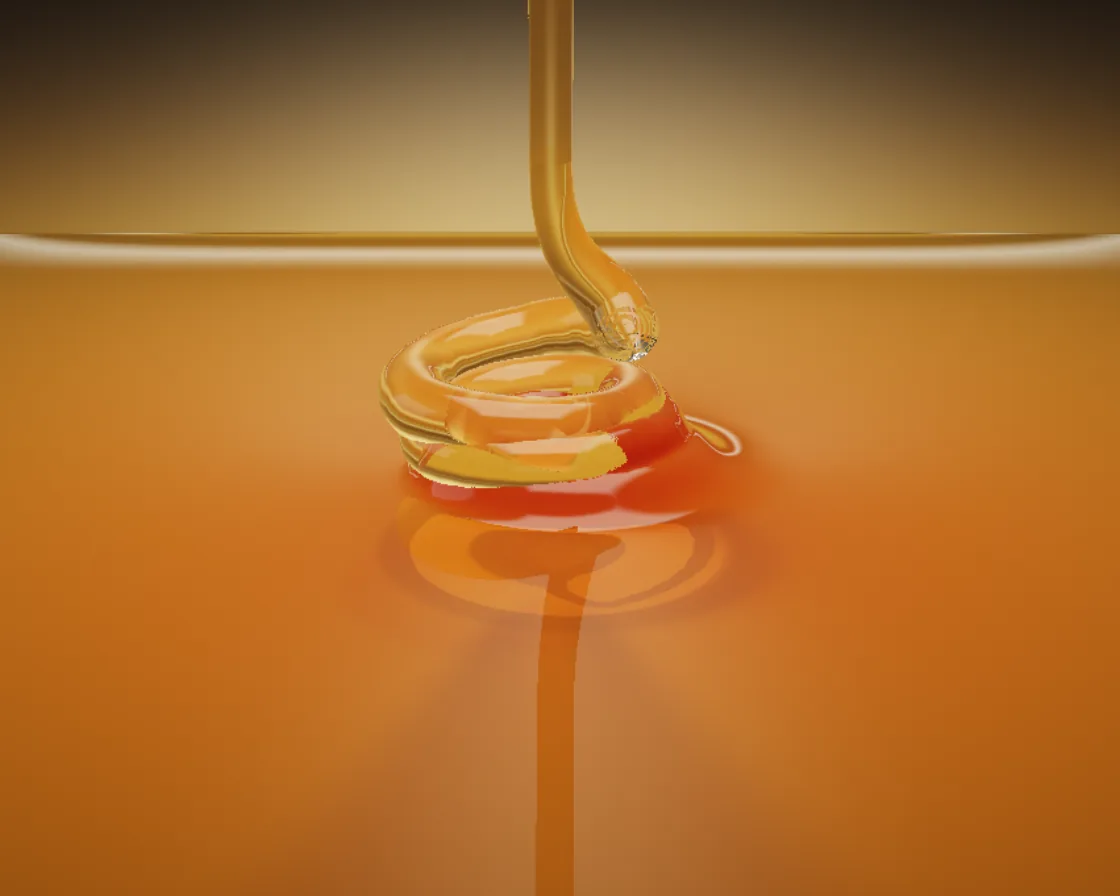
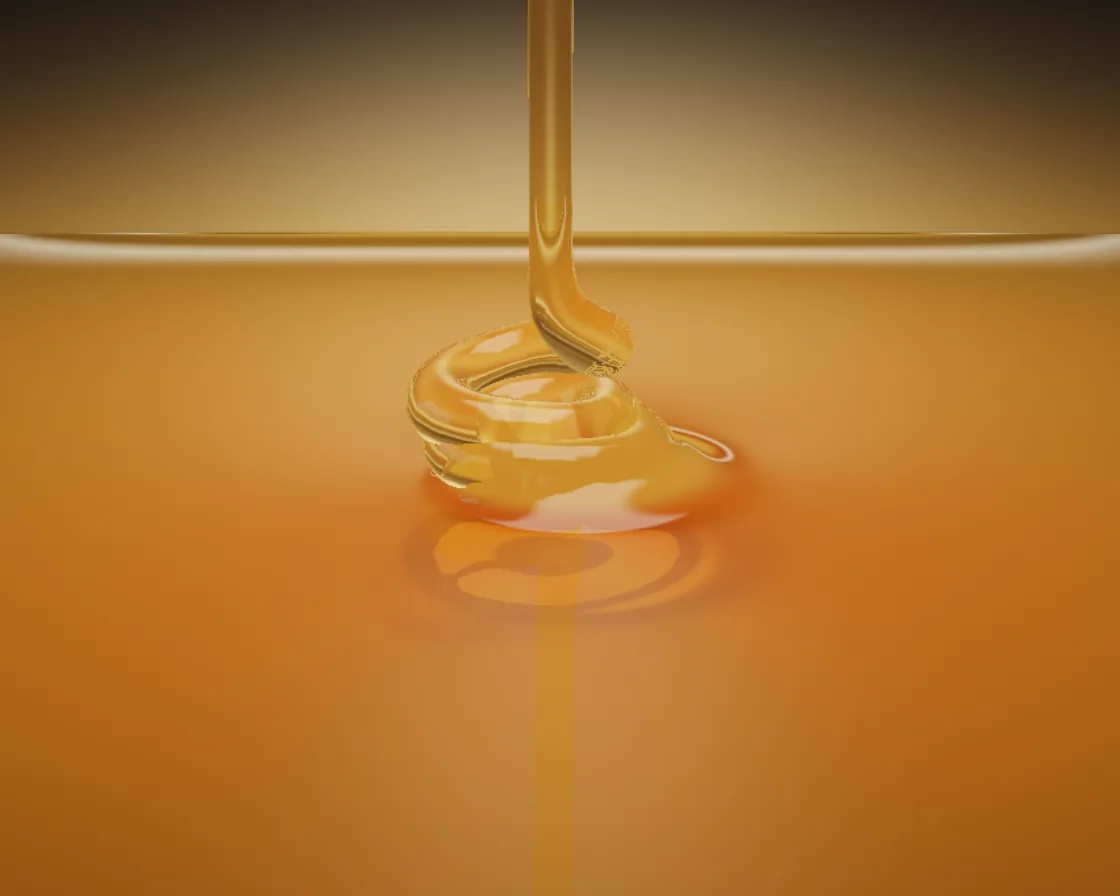
Lava flow: red-hot lava runs down the flank with crust rafts; Honey pour: fixed reflection, melt popping, shadow, irregular coiling

Changed region(s): [[0.3438, 0.1875, 0.6875, 1.0]]

diff --git a/anims/fluid/lava-flow.js b/anims/fluid/lava-flow.js
@@ -5,12 +5,16 @@
 // ash follow from where it carved and where it built up. Then the lava is a simulation on that very terrain: each
 // cell holds a thickness and a temperature, and lava flows to lower neighbours at a rate that grows steeply with
 // its thickness and collapses as it cools (cold lava is hundreds of times stiffer), so it finds the gullies by
-// itself, builds levees and keeps a hot channel open down the middle. A crust ages on its surface and is torn
-// open where the flow runs fast; its plates are drawn on coordinates the flow carries along, so they drift,
-// stretch and crack apart. Every pixel is a ray marched over the terrain plus the lava. Lava's light is
+// itself, builds levees and keeps a hot channel open down the middle. The vent pulses, and every 16 s a surge of
+// fresh lava spills over and runs down the channels, so the glowing lava really flows down the mountain. A crust
+// ages on the surface (each plate sets at its own age, so dark rafts float on the running lava before it all
+// crusts over) and is torn open where the flow runs fast; lava that stops moving loses its heat, so old lobes go
+// dark with red cracks. The plates, and the cooler streaks on the molten surface, are drawn on coordinates the flow
+// carries along, so they drift, stretch into flow lines and crack apart. Every pixel is a ray marched over the terrain plus the lava. Lava's light is
 // blackbody radiation: three wavelengths through Planck's law, so a crack at 1150 °C glows yellow-orange and the
 // crust at 600 °C is a dull red a thousand times dimmer. That light is mipmapped from above and thrown back onto
-// the slopes around it; the crater lights the steam plume from below, and the plume rises through 3D noise.
+// the slopes around it; the crater lights the steam plume from below, and the plume rises through 3D noise. Up close the rock is
+// speckled, pitted scoria. On a narrow screen the camera steps back so it all fits; reduced motion shows one still.
 const PARAMS = { flow: 1, cooling: 1, speed: 1 };
 
 export default function (stage) {
@@ -119,9 +123,10 @@ export default function (stage) {
     age = (age + 1.) * (1. - clamp(fast / max(h, .1) * 2. - .03, 0., .08));   // older each step; only fast flow tears the skin
     vec2 dv = vec2(c) - VENT; float g = exp(-dot(dv, dv) / 30.);
     h += SRC * g; T = mix(T, 1., clamp(SRC * g * 6., 0., 1.)); age *= 1. - clamp(SRC * g * 40., 0., 1.);
-    T = max(0., T - COOL * T / (h + .25));
+    float still = smoothstep(.02, .0, fast / max(h, .1));         // lava that has stopped moving loses its heat for good
+    T = max(0., T - COOL * T / (h + .25) * (1. + 5. * still));
     h *= 1. - .0004 * smoothstep(.3, .12, T);                   // cold lava sets into rock
-    o = vec4(h, T, min(age, 5000.), 1);
+    o = vec4(h, T, min(age, 20000.), 1);
   }`);
   // a lava lake filling the crater to its lip, to start from
   const fillP = prog(`${SIMC} uniform vec2 VENT;
@@ -146,7 +151,7 @@ export default function (stage) {
   const PLANCK = `
   vec3 planck(float K) { vec3 l = vec3(.61, .55, .465); return pow(vec3(.61) / l, vec3(5.)) * exp(-14388. / l / K + 14388. / .61 / 1450.); }
   float kelvin(float T) { return 680. + 790. * T; }            // the simulation's 0..1 heat, in kelvin
-  float crustOf(float T, float age) { return max(smoothstep(6., 40., age), smoothstep(.62, .45, T)); }`;
+  float crustOf(float T, float age) { return max(smoothstep(700., 3600., age), smoothstep(.6, .42, T)); }`;
   // what the lava gives off, seen from above, with mipmaps: the light it throws on everything near it
   const emitP = prog(`${SIMC} ${PLANCK}
   void main() { vec4 s = texelFetch(S, ivec2(gl_FragCoord.xy), 0);
@@ -262,10 +267,14 @@ export default function (stage) {
     vec3 alb = mix(vec3(.06, .055, .055), vec3(.13, .115, .1), smoothstep(.02, -.06, ero) * .7 + .3 * fine);
     alb = mix(alb, vec3(.035, .032, .034), smoothstep(.04, .12, ero));
     alb *= .8 + .4 * fine;
+    // up close: vesicular scoria, speckled, with dark pits and the odd paler clinker
+    float near = smoothstep(7., 2.5, t), sc = n3(vec3(p.xz * 27., .35)), pit = n3(vec3(p.xz * 71., .15));
+    alb *= mix(1., (.7 + .6 * sc) * (1. - .55 * smoothstep(.62, .8, pit)), near);
+    alb = mix(alb, vec3(.16, .12, .1), smoothstep(.78, .9, n3(vec3(p.xz * 19., .85))) * near * .5);
     float r = length(p.xz);
     vec3 amb = mix(vec3(.035, .032, .038), vec3(.06, .07, .11), n.y * .5 + .5) * .65;
     vec3 twl = vec3(.35, .18, .12) * max(dot(n, normalize(TW + vec3(0, .25, 0))), 0.) * .18;     // the last of the afterglow
-    vec3 gl = glowAt(p.xz) * (.5 + .5 * n.y) * 1.6;
+    vec3 gl = glowAt(p.xz) * (.5 + .5 * n.y) * 2.;
     vec3 cp = vec3(0., 2.55, 0.) - p; float cd = length(cp);   // the crater's lake, lighting its walls and the rim
     vec3 cl = vec3(1., .38, .1) * 1.4 * max(dot(n, cp / cd), 0.) / (cd * cd * 1.5 + .25);
     vec3 col = alb * (amb + twl + gl + cl);
@@ -274,15 +283,24 @@ export default function (stage) {
       // margins and the crust's edge are broken up with noise so the simulation's cells never show
       float th = lv.w, Tm = lv.y, age = lv.z, jit = vn(p.xz * 31.) - .5 + .5 * (vn(p.xz * 83.) - .5);
       vec2 mc = texture(M, simUV(p.xz)).xy / 6.5; vec3 v = vor(mc);
-      float cr = clamp(crustOf(Tm, age) + jit * .35, 0., 1.);
+      // each plate of skin sets at its own age, so on a running channel dark rafts float on the glowing lava long
+      // before the whole surface crusts over
+      float pid = h21(vec2(v.z * 91.)), thr = mix(250., 2600., pid * pid);
+      float cr = clamp(max(smoothstep(thr, thr * 1.5 + 500., age), smoothstep(.6, .42, Tm)) + jit * .3, 0., 1.);
       float fw = t * PXA / max(abs(dot(n, rd)), .3) / (SIMW / float(N.x) * 6.5);   // one pixel, in plate units
-      float w = .025 + .07 * (1. - cr) * (.4 + .6 * h21(vec2(v.z * 91.)));
-      float open = smoothstep(.28, .6, Tm) * (1. - .85 * smoothstep(200., 2500., age)) * (.3 + .7 * h21(vec2(v.z * 37.)));
+      float w = .025 + .08 * (1. - cr) * (.4 + .6 * h21(vec2(v.z * 91.)));
+      float open = smoothstep(.3, .62, Tm) * (1. - .8 * smoothstep(3000., 14000., age)) * (.3 + .7 * h21(vec2(v.z * 37.)));
       float crack = smoothstep(w + fw, max(w - fw, 0.), v.y - v.x) * min(1., w / fw) * open;
       float K = kelvin(Tm);
-      vec3 molten = planck(K * (.96 + .06 * vn(mc * 2.5 + vec2(0, T * .3)))) * (.8 + .4 * vn(mc * 7.));
-      vec3 plate = alb * (.55 + .7 * v.z) * (amb + gl * .7 + cl) + planck(K - 450. * cr) * .7;
-      vec3 lc = mix(molten, plate + planck(K - 40.) * crack * 1.4, smoothstep(.15, .85, cr));
+      // the molten surface: cooler skin streaks drawn on the carried coordinates, so the flow itself stretches them
+      // into the long lines a running channel shows; a little hotter where the skin is torn
+      float sk = vn(mc * 1.6 + 3.) * .55 + vn(mc * 4.1 + 7.) * .3 + vn(mc * 11.) * .15;
+      float Km = K * (.88 + .13 * smoothstep(.68, .32, sk) + .03 * vn(mc * 2.5 + vec2(0, T * .3)));
+      vec3 molten = planck(Km) * (.75 + .5 * smoothstep(.2, .8, vn(mc * 6.)));
+      // crust: a rough black-red skin, lit by the lava around it, with its own dull glow while it is still hot
+      float rough = vn(mc * 23.) * .6 + vn(mc * 57.) * .4;
+      vec3 plate = alb * (.4 + .9 * v.z * rough) * (amb + gl * .9 + cl) + planck(K - 470. * cr) * (.5 + .4 * rough);
+      vec3 lc = mix(molten, plate + planck(K - 30.) * crack * 1.5, smoothstep(.15, .85, cr));
       col = mix(col, lc * 2., smoothstep(.0, .1, th + jit * .1));
     }
     // haze: blue dusk far off, and the lava's light caught in the fumes near the ground
@@ -347,7 +365,7 @@ export default function (stage) {
     if (SC) { gl.deleteTexture(SC.t); gl.deleteFramebuffer(SC.f); }
     SC = target(W, H, gl.RGBA16F, gl.LINEAR, true);
   };
-  const ro = new ResizeObserver(resize); ro.observe(stage); resize();
+  const ro = new ResizeObserver(() => { resize(); if (reduce && warm >= WARM) render(); }); ro.observe(stage); resize();
   const run = (pr, out, set) => {
     gl.useProgram(pr.p); gl.bindFramebuffer(gl.FRAMEBUFFER, out ? out.f : null); gl.viewport(0, 0, out ? out.w : W, out ? out.h : H);
     let unit = 0;
@@ -365,36 +383,43 @@ export default function (stage) {
   run(terrainP, TT, u => u('RES', NT));
   run(groundP, Zt, u => u('TT', TT));
   run(fillP, S.w, u => { u('Z', Zt); u('VENT', VENT); }); S.swap();                     // the crater starts full
+  // the vent pulses: every so often a surge of fresh lava spills over and runs down the channels
+  let sim = 0;
+  const surge = () => { const ph = (sim++ / 600) % 16; return 0.55 + 2.2 * Math.exp(-(((ph - 3) / 1.6) ** 2)); };
   const step = n => {
     for (let done = 0; done < n;) {
       const k = Math.min(10, n - done); done += k;
       for (let i = 0; i < k; i++) {
-        run(flowP, S.w, u => { u('S', S.r); u('Z', Zt); u('C', 0.1); u('COOL', 0.000015 * PARAMS.cooling); u('SRC', 0.012 * PARAMS.flow); u('VENT', VENT); }); S.swap();
+        run(flowP, S.w, u => { u('S', S.r); u('Z', Zt); u('C', 0.1); u('COOL', 0.000015 * PARAMS.cooling); u('SRC', 0.012 * PARAMS.flow * surge()); u('VENT', VENT); }); S.swap();
       }
       run(matP, M.w, u => { u('S', S.r); u('Z', Zt); u('M', M.r); u('C', 0.1); u('K', k); u('VENT', VENT); }); M.swap();
     }
   };
   // the camera stands on the lower flank and drifts slowly along it
-  const cam = t => {
-    const a = 0.36 + (reduce ? 0 : 0.06 * Math.sin(t * 0.045)), rr = 8.4;
-    const cx = Math.sin(a) * rr, cz = -Math.cos(a) * rr, cy = 2.2 + (reduce ? 0 : 0.08 * Math.sin(t * 0.06 + 1));
+  // (on a narrow screen it steps back and up and widens its lens, so the whole cone and plume still fit)
+  const cam = (t, k) => {
+    const a = 0.36 + (reduce ? 0 : 0.06 * Math.sin(t * 0.045)), rr = 8.4 + 2.9 * k;
+    const cx = Math.sin(a) * rr, cz = -Math.cos(a) * rr, cy = 2.2 + 0.7 * k + (reduce ? 0 : 0.08 * Math.sin(t * 0.06 + 1));
     let fx = -0.5 - cx, fy = 1.45 - cy, fz = -1.2 - cz; const fl = Math.hypot(fx, fy, fz); fx /= fl; fy /= fl; fz /= fl;
     let rx = fz, rz = -fx; const rl = Math.hypot(rx, rz); rx /= rl; rz /= rl;
     return { p: [cx, cy, cz], f: [fx, fy, fz], r: [rx, 0, rz], u: [fy * rz, fz * rx - fx * rz, -fy * rx] };
   };
   let raf, last = null, t = 0, warm = 0;
   const WARM = 14000;                                          // steps run before the first frame shows
-  function frame(now) {
-    if (last === null) last = now;
-    const dt = Math.min(1 / 30, (now - last) / 1000) * (reduce ? 0.25 : 1); last = now;
-    if (warm < WARM) { const n = Math.min(1500, WARM - warm); step(n); warm += n; }
-    else { t += dt * PARAMS.speed; step(Math.max(1, Math.round(10 * PARAMS.speed * Math.min(2, dt * 60)))); }
+  const render = () => {
     run(emitP, EM, u => { u('S', S.r); }); gl.bindTexture(gl.TEXTURE_2D, EM.t); gl.generateMipmap(gl.TEXTURE_2D);
-    const c = cam(t), asp = W / H, foc = 1.85 * Math.max(1, 1.3 / asp);
+    const asp = W / H, k = 1 - Math.min(1, asp / 1.45), c = cam(t, k), foc = 1.85 * (1 - 0.5 * k);
     run(renP, SC, u => { u('TT', TT); u('S', S.r); u('M', M.r); u('EM', EM); u('NZ', NZ); u('R', [W, H]); u('T', t); u('FOC', foc); u('PXA', 2 / (foc * H)); u('CP', c.p); u('CF', c.f); u('CR', c.r); u('CU', c.u); });
     gl.bindTexture(gl.TEXTURE_2D, SC.t); gl.generateMipmap(gl.TEXTURE_2D);
-    run(compP, null, u => { u('SC', SC); u('R', [W, H]); u('FADE', warm < WARM ? 0 : Math.min(1, t / 0.6)); });
-    raf = requestAnimationFrame(frame);
+    run(compP, null, u => { u('SC', SC); u('R', [W, H]); u('FADE', reduce ? 1 : warm < WARM ? 0 : Math.min(1, t / 0.6)); });
+  };
+  function frame(now) {
+    if (last === null) last = now;
+    const dt = Math.min(1 / 30, (now - last) / 1000); last = now;
+    if (warm < WARM) { const n = Math.min(1500, WARM - warm); step(n); warm += n; }
+    else { t += dt * PARAMS.speed; step(Math.max(1, Math.round(10 * PARAMS.speed * Math.min(2, dt * 60)))); }
+    render();
+    if (!reduce || warm < WARM) raf = requestAnimationFrame(frame);       // reduced motion: one still, once warm
   }
   raf = requestAnimationFrame(frame);
   return () => { cancelAnimationFrame(raf); ro.disconnect(); gl.getExtension('WEBGL_lose_context')?.loseContext(); canvas.remove(); };

diff --git a/anims/fluid/honey-coil.js b/anims/fluid/honey-coil.js
@@ -4,13 +4,17 @@
 // into the pool. Thin honey is pale gold, the deep mound almost red-brown, the thread glows where the backlight comes
 // through it, and the curved ropes focus the light into bright lines on the dish below. Move the pointer and the pour
 // follows it: dragged along, the coil is laid out as a trail of loops, like a sewing machine stitching in honey.
-// The trick: the coil is kinematic but physical. The contact point circles at the speed the rope arrives, so each
+// The trick: the coil is kinematic but physical. The contact point circles at the speed the rope arrives (its radius
+// and pace wander, it tightens as the pile rises, and now and then it flattens into folding back and forth and may
+// come out of it turning the other way, as real coiling does), so each
 // fresh loop is a real tube (a chain of capsules) that rests on the surface or on the loop beneath it, like stacked
 // rope, and sinks, faster the higher the stack stands. Once a loop has sunk by its radius it is melted into a height
 // field as exactly the half that still shows; there it softens and fades over a second, handing its volume to a
 // smooth mound that spreads by the thin-film (lubrication) equation, solved implicitly on the CPU. Each pixel
 // raymarches the thread, the loops and that surface, and colours them by Beer-Lambert absorption along the light's
 // path through the honey: refraction down to the dish, soft amber shadows, caustics where curved rope focuses light.
+// A melted loop still standing proud of the mound is lit like rope, so it keeps its colour as it melts, and the pool
+// mirrors the thread and coil as amber backlit rope.
 const PARAMS = { flow: 1, loops: 1.5, spread: 1 };
 
 export default function (stage) {
@@ -68,7 +72,7 @@ export default function (stage) {
   uniform sampler2D TB, TR; uniform vec4 BZ[10]; uniform vec4 BS; uniform vec3 NZ; uniform vec4 LV[64]; uniform vec4 LG[8]; uniform vec4 LS; uniform int NLV;
   uniform float A1, HMAX, H0, LB, LR, EXPO; uniform vec2 CC; uniform float CA;
   uniform vec3 CP, CF, CR, CU; uniform float FOC; uniform vec2 R; out vec4 o;
-  const vec3 SIG = vec3(.042, .15, .52);                  // honey's absorption per mm: blue goes first, then green
+  const vec3 SIG = vec3(.05, .15, .47);                  // honey's absorption per mm: blue goes first, then green
   const float ETA = 1.49;
   const vec3 LD = vec3(0., .94, -.342);                    // toward the key light: a softbox overhead, a little behind
   float hB(vec2 x) {                                    // cubic B-spline from four bilinear taps: smooth slopes
@@ -217,22 +221,32 @@ export default function (stage) {
     vec3 thr = vec3(1);
     float ys = (x.y - NZ.z) * LD.y / -LD.z;
     if (ys > NZ.y - 4.) {
-      float a = thR(ys), w = a + .16 * max(ys - h, 0.), dd = abs(x.x - NZ.x), ch = 2. * a * sqrt(max(1. - dd * dd / (w * w), 0.));
-      thr = mix(vec3(1), exp(-SIG * ch) * (.6 + 1.1 * exp(-pow(dd / (w * .25), 2.)) * a / w), smoothstep(w, w * .5, dd) * min(1., 2. * a / w + .3) * smoothstep(NZ.y - 4., NZ.y + 6., ys));
+      float a = thR(ys), w = a + .45 * max(ys - h, 0.), dd = abs(x.x - NZ.x), ch = 2. * a * sqrt(max(1. - dd * dd / (w * w), 0.));
+      thr = mix(vec3(1), exp(-SIG * ch) * (.6 + 1.1 * exp(-pow(dd / (w * .25), 2.)) * a / w), smoothstep(w, w * .3, dd) * min(1., 2.4 * a / w) * smoothstep(NZ.y - 4., NZ.y + 6., ys));
     }
     return vec3(1., .93, .84) * 2.6 * spot * foc * exp(-SIG * path) * thr;
   }
   vec3 shadePool(vec3 p, vec3 rd, vec3 n) {
     float c = max(dot(n, -rd), 0.), F = .039 + .961 * pow(1. - c, 5.);
     vec3 rr = reflect(rd, n), refl = env(p, rr, 1.);
-    // the glossy pool mirrors the thread and the coil, faintly
+    // the glossy pool mirrors the thread and the coil
     float tm = traceThread(p + rr * .05, rr);
     if (tm < 0.) tm = traceBend(p + rr * .05, rr);
     if (tm < 0.) tm = traceLive(p + rr * .05, rr);
-    if (tm > 0.) refl = vec3(1.15, .6, .19);
+    // seen in the mirror the rope is what it is up close: the backlight coming through its amber, plus the faint
+    // glow of what it scatters (not a flat cut-out)
+    if (tm > 0.) refl = env(p + rr * (tm + 1.5), rr, 1.) * exp(-SIG * 1.6) * 1.2 + vec3(.95, .5, .15) * .22;
     vec3 t = refract(rd, n, 1. / ETA); float lv = p.y / max(-t.y, .05);
     vec2 xb = p.xz + t.xz * lv;
     vec3 below = floorLight(xb) * vec3(.86, .84, .8) * .55 * exp(-SIG * lv);
+    // where a melted loop still stands proud of the mound it is still a rope: the backlight comes through it as it
+    // does through the fresh loops, so a loop keeps its colour as it melts instead of jumping to the mound's red
+    float rh = hR(p.xz);
+    if (rh > .02) {
+      float ch = min(2. * rh / max(-t.y, .4), 2.6 * CA), sct = 1. - exp(-ch * .55);
+      vec3 thru = env(p, rd, 2.6) * exp(-SIG * ch) * (1. - sct * .3) + vec3(.95, .5, .15) * sct * .3 * exp(-SIG * ch * .5);
+      below = mix(below, thru, smoothstep(.05, .6, rh / max(CA, .1)) * .85);
+    }
     vec3 col = refl * F + below * (1. - F);
     vec2 sc = p.xz - vec2(0., -10.);
     return col * (.12 + .88 * exp(-dot(sc, sc) / 5000.));   // the light falls away from the set
@@ -374,7 +388,10 @@ export default function (stage) {
   const DEP = new Float32Array(32), DEPY = new Float32Array(16); let nDep = 0;
 
   // the pour: a nozzle that drifts (or follows the pointer), a coil centre that lags it, a contact point circling
-  const noz = { x: 0, z: 0, vx: 0, vz: 0 }, coil = { phi: 0, x: RC0, z: 0 };
+  const noz = { x: 0, z: 0, vx: 0, vz: 0 }, coil = { phi: 0, x: RC0, z: 0, dir: 1, fold: false };
+  const hash1 = n => { const x = Math.sin(n * 127.1 + 311.7) * 43758.5453; return x - Math.floor(x); };
+  const sstep = (a, b, x) => { const t = Math.max(0, Math.min(1, (x - a) / (b - a))); return t * t * (3 - 2 * t); };
+  const nz1 = (t, k) => { const i = Math.floor(t), f = t - i, u = f * f * (3 - 2 * f); return hash1(i + k * 57) * (1 - u) + hash1(i + 1 + k * 57) * u; };   // smooth 1D noise in 0..1
   let simT = 0, contactY = H0 + AL;
   let px = 0.5, py = 0.5, lastMove = -1e9, held = false;
   function advance(dt, follow, target) {
@@ -384,12 +401,20 @@ export default function (stage) {
     for (let s = 0; s < sub; s++) {
       noz.vx += (40 * (tx_ - noz.x) - 11 * noz.vx) * h; noz.vz += (40 * (tz_ - noz.z) - 11 * noz.vz) * h;
       noz.x += noz.vx * h; noz.z += noz.vz * h;
-      const rc = RC0 * (1 + 0.1 * Math.sin(simT * 0.71) + 0.05 * Math.sin(simT * 2.3)) * Math.sqrt(FLOW);
-      coil.phi += 2 * Math.PI * FREQ * (1 + 0.06 * Math.sin(simT * 0.53)) * h;
+      // the coil is never quite steady: its radius and pace wander, it tightens as the pile rises toward the nozzle,
+      // and now and then it flattens into folding, the rope swinging back and forth, and may come out of it turning
+      // the other way, as real coiling honey does
+      const pile = Math.min(1, Math.max(0, (contactY - H0 - AL) / 6));
+      const rc = RC0 * (0.8 + 0.34 * nz1(simT * 0.37, 1) + 0.05 * Math.sin(simT * 2.3)) * (1 - 0.22 * pile) * Math.sqrt(FLOW);
+      coil.phi += coil.dir * 2 * Math.PI * FREQ * (0.84 + 0.3 * nz1(simT * 0.5, 2)) * h;
+      const ecc = 0.9 * sstep(0.6, 0.82, nz1(simT * 0.12, 3)), psi = simT * 0.06 + 3 * nz1(simT * 0.05, 4);
+      if (ecc > 0.8 && !coil.fold) { coil.fold = true; if (hash1(Math.floor(simT * 0.12) + 7.3) > 0.5) coil.dir = -coil.dir; }
+      else if (ecc < 0.5) coil.fold = false;
       // the coil's centre trails the nozzle and slowly precesses, so loops land beside each other as well as on top
       let cx = noz.x - noz.vx * 0.32 + 1.2 * Math.cos(simT * 0.83), cz = noz.z - noz.vz * 0.32 + 1.2 * Math.sin(simT * 0.83);
       cx = Math.max(-12, Math.min(12, cx)); cz = Math.max(-12, Math.min(12, cz));
-      coil.x = cx + rc * Math.cos(coil.phi); coil.z = cz + rc * Math.sin(coil.phi);
+      const ux = rc * Math.cos(coil.phi), uz = rc * (1 - ecc) * Math.sin(coil.phi), cs = Math.cos(psi), sn = Math.sin(psi);
+      coil.x = cx + ux * cs - uz * sn; coil.z = cz + ux * sn + uz * cs;
       const lp = live[live.length - 1];
       if (!lp || Math.hypot(coil.x - lp.x, coil.z - lp.z) >= spacing) live.push({ x: coil.x, z: coil.z, y: landY(coil.x, coil.z), age: 0 });
     }

diff --git a/anims/registry-more.js b/anims/registry-more.js
@@ -60,7 +60,7 @@ export const MORE = [
     params: { heat: P(0.2, 2, 0.05, 'Heat'), cooling: P(0.85, 0.99, 0.005, 'Heat persistence'), curl: P(0, 50, 1, 'Curl') } },
   { id: 'lava-flow', cat: 'fluid', title: 'Lava flow', kind: 'webgl', posterAt: 6000,
     trick: 'Lava simulated on an eroded volcano, lit by blackbody light',
-    notes: ['A volcano at dusk: lava spills from the crater down eroded gullies, crusting and cracking, its glow lighting the slopes and plume.', 'A thickness-and-heat simulation runs on the raymarched mountain; colour is Planck’s law, so cracks glow and crust goes dull red.'],
+    notes: ['A volcano at dusk: red-hot lava pours from the crater and runs down the gullies in glowing channels, dark rafts of crust drifting on it, its light on the slopes and plume.', 'A thickness-and-heat simulation runs on the raymarched mountain; the vent surges, crust plates set at their own age and ride the flow, and colour is Planck’s law.'],
     params: { flow: P(0.5, 1.6, 0.05, 'Flow'), cooling: P(0.4, 2.5, 0.1, 'Cooling'), speed: P(0.5, 1.5, 0.1, 'Speed') } },
   { id: 'ferrofluid', cat: 'fluid', title: 'Ferrofluid', kind: 'webgl', posterAt: 3800, pointer: true,
     trick: 'Rosensweig needles on a block magnet: concave cones on a hex lattice, raymarched as black mirrors',

diff --git a/anims/i18n-fr.js b/anims/i18n-fr.js
@@ -332,8 +332,8 @@ export const FR = {
   "title": "Coulée de lave",
   "trick": "Lave simulée sur un volcan érodé, éclairée en corps noir",
   "notes": [
-   "Un volcan au crépuscule : la lave déborde du cratère dans les ravines, se couvre d’une croûte qui se fend, et sa lueur éclaire les pentes et le panache.",
-   "Une simulation d’épaisseur et de chaleur tourne sur la montagne tracée par rayons ; la couleur suit la loi de Planck, les fissures brillent et la croûte vire au rouge sombre."
+   "Un volcan au crépuscule : la lave rouge vif jaillit du cratère et dévale les ravines en chenaux incandescents, des radeaux de croûte sombre dérivant dessus, sa lueur sur les pentes et le panache.",
+   "Une simulation d’épaisseur et de chaleur tourne sur la montagne en raymarching ; le cratère pulse, chaque plaque de croûte fige à son âge et suit le courant, et la couleur suit la loi de Planck."
   ]
  },
  "ferrofluid": {

diff --git a/anims/i18n-es.js b/anims/i18n-es.js
@@ -332,8 +332,8 @@ export const ES = {
   "title": "Colada de lava",
   "trick": "Lava simulada sobre un volcán erosionado, con luz de cuerpo negro",
   "notes": [
-   "Un volcán al anochecer: la lava rebosa del cráter por barrancos erosionados, se cubre de costra y se agrieta, y su brillo ilumina las laderas y la columna.",
-   "Una simulación de grosor y calor corre sobre la montaña trazada por rayos; el color sale de la ley de Planck, así las grietas brillan y la costra se apaga en rojo."
+   "Un volcán al anochecer: la lava al rojo vivo brota del cráter y baja por los barrancos en canales incandescentes, con balsas oscuras de costra a la deriva, y su luz tiñe las laderas y la columna.",
+   "Una simulación de espesor y calor corre sobre la montaña trazada por rayos; el cráter da pulsos, las placas de costra cuajan cada una a su edad y viajan con el flujo, y el color sigue la ley de Planck."
   ]
  },
  "ferrofluid": {

diff --git a/anims/i18n-zh.js b/anims/i18n-zh.js
@@ -1260,8 +1260,8 @@ export const ZH = {
   "title": "熔岩流",
   "trick": "在侵蚀的火山上模拟熔岩，用黑体辐射照亮",
   "notes": [
-   "黄昏的火山：熔岩从火山口溢出，沿着侵蚀出的沟壑流下，结壳又裂开，它的光照亮山坡和烟柱。",
-   "在光线步进的山体上模拟熔岩的厚度和温度；颜色来自普朗克定律，所以裂缝发亮，外壳变成暗红。"
+   "黄昏的火山：炽红的熔岩从火山口涌出，沿冲沟流成发光的河道，暗色的熔壳碎块漂在上面，火光映亮山坡与烟柱。",
+   "光线步进的山体上运行着厚度与热量的模拟；火口阵阵涌出新熔岩，熔壳板块各自按年龄凝固并随流漂移，颜色来自普朗克定律。"
   ]
  },
  "ferrofluid": {
